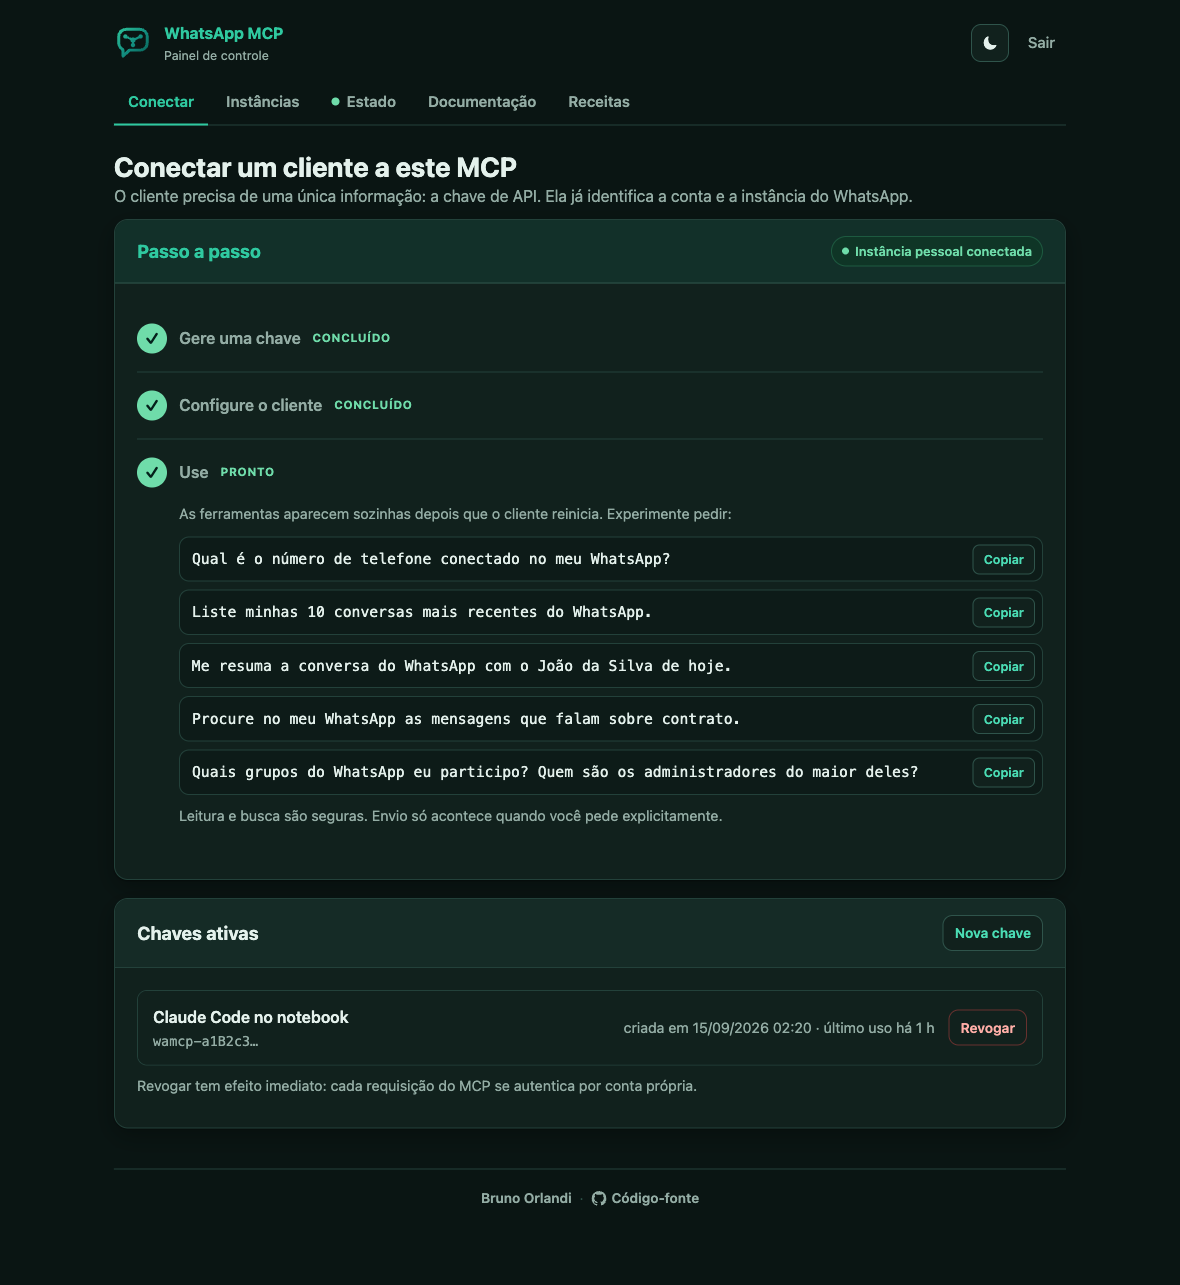
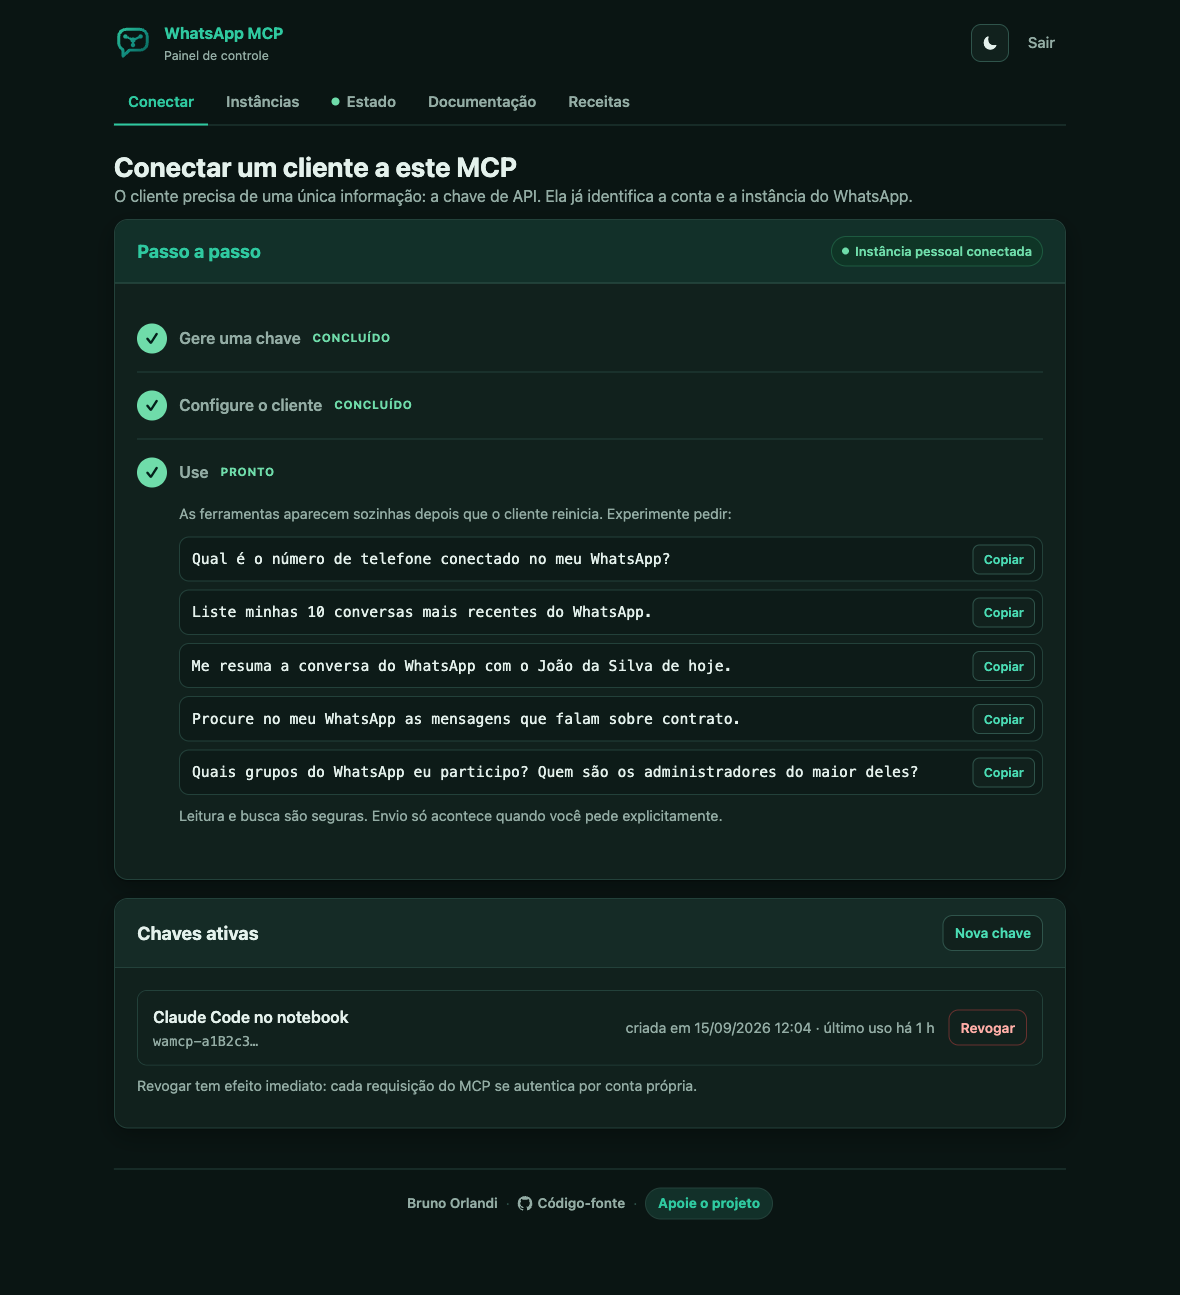
feat: a way to pay for this if it is worth something to you
The project is free to self-host for any noncommercial use and always
will be, so the ask is voluntary and it says so: pay what you want, ten
dollars suggested, and Stripe charges in the payer's own currency.

The link lives in the brand package next to the author and the
repository, which is why the button could ship empty and stay hidden
until there was somewhere real to point it. Now there is, so it appears
in the panel's colophon and in the README.

Claude-Session: https://claude.ai/code/session_018qvKZ5WaM6Gmy2Di8zi17j

diff --git a/internal/brand/brand.go b/internal/brand/brand.go
@@ -53,7 +53,8 @@ const (
 	AuthorURL = "https://github.com/BrOrlandi"
 	// RepositoryURL is the source, which the licence expects to stay reachable.
 	RepositoryURL = "https://github.com/BrOrlandi/whatsapp-mcp"
-	// SupportURL takes a voluntary payment of any amount. Empty hides the
-	// button entirely rather than linking somewhere broken.
-	SupportURL = ""
+	// SupportURL takes a voluntary payment of any amount, suggested at ten
+	// dollars. Empty hides the button entirely rather than linking somewhere
+	// broken, which is what it was until there was a link to point at.
+	SupportURL = "https://donate.stripe.com/8x200jdhA6c1d375jF9Ve06"
 )

diff --git a/README.md b/README.md
@@ -210,10 +210,13 @@ free to self-host for any noncommercial use. If it saves you time, you can
 support the work:
 
 <p align="center">
-  <a href="https://github.com/sponsors/BrOrlandi"><img alt="Sponsor on GitHub" src="https://img.shields.io/badge/%E2%9D%A4%20sponsor%20on%20github-monthly%20or%20one--off-0b6b5d?style=for-the-badge"></a>
+  <a href="https://donate.stripe.com/8x200jdhA6c1d375jF9Ve06"><img alt="Support the project" src="https://img.shields.io/badge/%E2%98%95%20support%20this%20project-pay%20what%20you%20want-0b6b5d?style=for-the-badge"></a>
+  <a href="https://github.com/sponsors/BrOrlandi"><img alt="Sponsor on GitHub" src="https://img.shields.io/badge/%E2%9D%A4%20sponsor%20on%20github-monthly-24292f?style=for-the-badge"></a>
 </p>
 
-One-off or recurring, any amount. It goes to the person writing the code.
+Pay what you want — the suggested amount is 10 dollars, and Stripe charges in
+your own currency. Or sponsor monthly on GitHub. Either way it goes to the
+person writing the code.
 ## License
 
 [PolyForm Noncommercial 1.0.0](LICENSE). Use it, modify it, self-host it and
